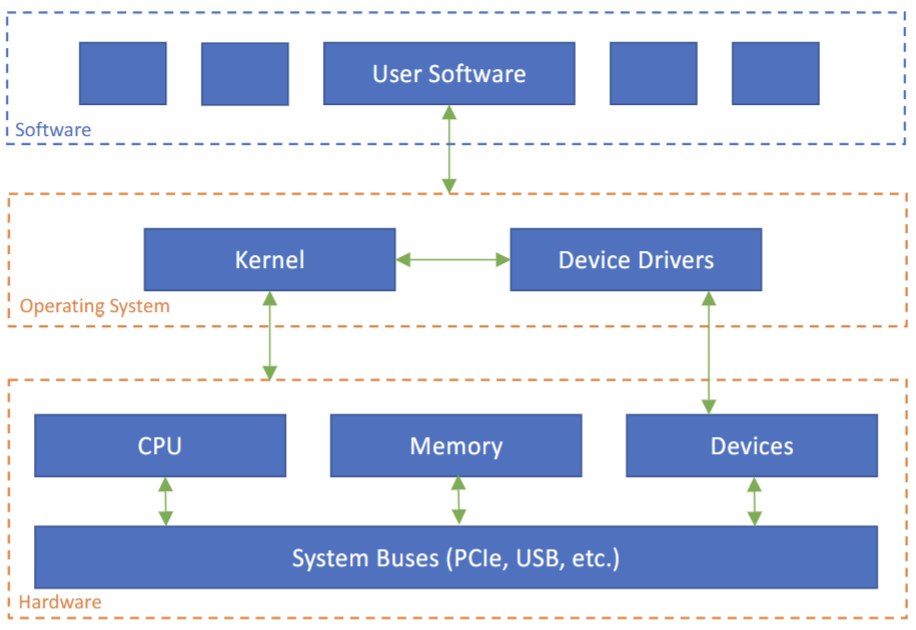
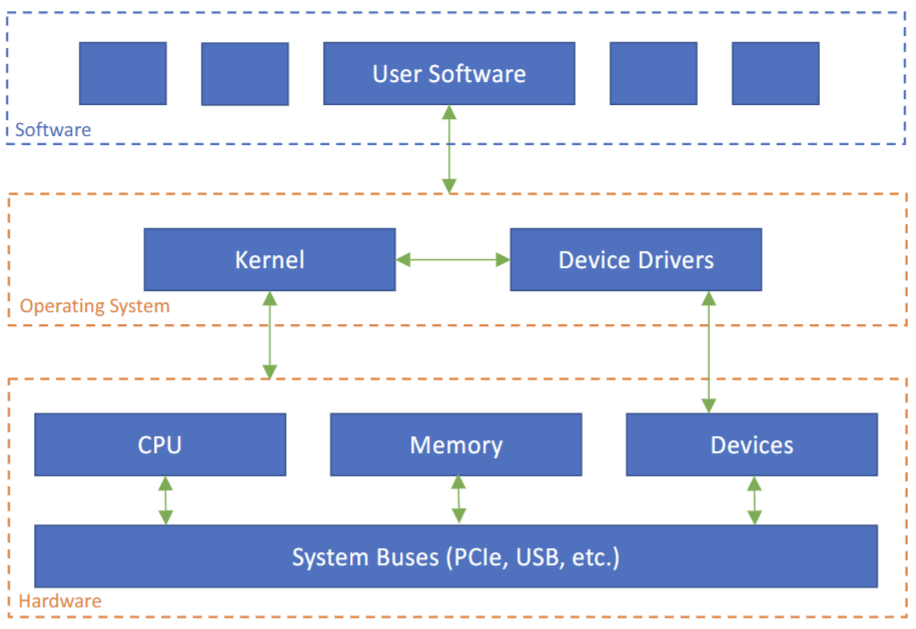
completed comp124 architecture key info

diff --git a/Comp Sci Year 1/Semester 2/COMP124 - Computer Systems/Key Info/Architecture.md b/Comp Sci Year 1/Semester 2/COMP124 - Computer Systems/Key Info/Architecture.md
@@ -1,0 +1,239 @@
+## Von Neumann Model
+Prompting Questions: 
+- What does the Von Neumann model consist of?
+- What concept is it associated with?
+- Has this model changed over time?
+- What does the architecture of a modern system look like?
+### Answers:
+Von Neumann model consists of:
+- Input Device ->
+- CPU & Memory ->
+- Output Device 
+
+(See below)
+![[von_neumann_model.png]]
+
+It is associated with the **stored program concept**.
+
+This model has not changed over time but the specifics (type of input device/memory etc.) have changed.
+
+![[modern_system.png]]
+## CPU Overview
+Prompting Questions:
+- What is the role of the CPU?
+- What is an instruction?
+- What is an instruction set?
+- What common types of CPU instruction sets exist? 
+- Where is each type of instruction set used, and how do they differ?
+- How do you measure CPU speed?
+- What does 1Ghz mean?
+- What is the advantage of multiple CPU cores?
+### Answers:
+The role of the CPU is to fetch instructions from memory and execute them.
+
+An instruction is a very basic command the CPU can perform such as:
+- Add two values
+- Save a value at $x$ point in memory
+- etc.
+
+An instruction set is all the instructions a CPU can perform. These differ based on make (AMD, Intel, etc.)
+
+The two common types of instruction set are:
+- Complex Instruction Set (CISC) - Desktops/Servers etc. - For example Intel x86
+- Reduced Instruction Set (RISC) - Smartphones etc. - For example ARM
+
+They differ as:
+- RISC instruction sets use a small set of simple, fixed-length, fast instructions which can execute in a single clock cycle.
+- CISC instruction sets use a larger set of variable length instructions which may take multiple clock cycles to execute.
+- RISC code isn't slower than CISC code, but will be longer.
+
+CPU speed is measured in hertz (Hz) by the speed of its clock:
+- 1Hz = 1 cycle/second
+- 1MHz = 1,000,000 cycles/second
+- 1GHz = 1,000,000,000 cycles/second
+
+Multiple CPU cores allow for some programs to execute faster provided they are written in a way to take advantage of concurrency.
+## System Bus
+Prompting Questions:
+- What is a system bus?
+- Why do we use busses?
+- How does data transfer work?
+- What kinds of lines does the bus have, and what are their purposes?
+- What are common busses in modern systems?
+- What is bus contention?
+### Answers
+A system bus is a collection of wires which all connected motherboard components to communicate.
+
+Using a bus allows us to avoid directly connecting each component (a point-to-point system) which is prohibitively expensive/complicated. In a $n$ device point to point system there would need to be
+$$
+\frac{n(n-1)}2=O(n^2)
+$$
+connections.
+
+Data transfer works by **senders** placing items (data) on the bus and **receivers** taking it off.
+
+The bus has:
+- Address lines - These specify a memory address/device to be accessed
+- Data lines - Carry the data/item to be transferred
+- Control lines - Carry instructions for the receiver to perform
+
+Modern systems include busses such as:
+- SATA
+- PCIe
+- USB
+
+**Bus contention** is the problem of deciding what uses a bus at any given time, since only 1 thing can be on each bus at once.
+## I/O Devices & Interrupts
+Prompting Questions:
+- How does the CPU know when a device is ready to receive/transmit?
+- What is polling?
+- What are the downsides of polling?
+- What are interrupts?
+### Answers:
+The CPU knows when devices are ready by using:
+- Polling (Older systems)
+- Interrupts (Modern systems)
+
+Polling is when the CPU periodically checks the status of each device by sending out a clock signal.
+
+The disadvantages of polling are:
+- Needs the CPU to stop what it's doing
+- Wastes clock cycles
+
+An interrupt is a signal sent to the CPU by a device when:
+- It is ready
+- It is finished with a task
+They are intercepted by an interrupt handler within the OS which then decides how/when the CPU will access respond to the interrupt.
+## Internal Memory
+Prompting Questions:
+- How are programs and data stored?
+- What do we need to do before processing programs/data?
+- What types of internal memory are there?
+- How are they used?
+- What are their properties?
+### Answers
+Programs/Data are **stored in binary** and must be **loaded into internal/main memory** before they can be processed.
+
+The types of internal memory are:
+- Random Access Memory (RAM)
+- Read Only Memory (ROM)
+
+RAM is:
+- Read and Write
+- Volatile
+- For storing programs as they are running
+ROM is
+- Read only
+- Non-volatile
+- For storing static code such as boot code
+## Bit Length & Word Size
+Prompting Questions:
+- What is the bit length of system?
+- What are common bit lengths for different types of systems?
+- Can modern processors run programs built for older ones?
+- What does word size mean?
+- How are bit length and word size related?
+- How does bit length affect maximum RAM size?
+- How do we index bits?
+- What is the most/least significant bit?
+### Answers:
+The bit length of a system is how much memory can be manipulated by the CPU in one operation.
+
+Common bit lengths are:
+- 64 Bit - Most modern systems
+- 32 Bit - Some modern systems and some older ones
+- 16Bit/8Bit - Embedded microprocessors
+
+Newer processors with higher bit lengths are usually built with backwards compatibility in mind. 64-Bit Processors can usually run 32-Bit programs but not vice versa.
+
+Word size is the size of the data that can be stored in a single variable in a piece of code.
+
+Word size cannot exceed bit length as the bit length is linked to the size of CPU registers and the width of the system bus.
+
+In an $n$-bit system, the maximum number of addressable bytes is $2^n$. This is our maximum RAM size:
+- 16-Bit System - 64KB of RAM
+- 32-Bit System - 4GB of RAM
+- 64-Bit System - 16EB of RAM
+
+Within a single "word" we index bits from right to left:
+- Bit 0 (right most bit) is the least significant bit
+- Bit $n-1$ (left most bit) is the most significant bit
+## CPU Structure
+- What are the main units of the CPU?
+- What do these units do?
+- What is a register?
+- What specific purpose registers does the CPU have?
+- What do these registers do?
+- What registers does the MMU contain and what do they do?
+- What are the steps of the fetch execute cycle?
+### Answers
+The main units of the CPU are:
+- Control Unit 
+- The Arithmetic Logic Unit (ALU)
+- The Memory Management Unit (MMU)
+
+The **control unit** governs the activity of the CPU, and provides the ALU with operands and data.
+
+The ALU performs arithmetic operations and bit manipulations.
+
+The MMU is used to interface with main memory.
+
+A register is a small data store within the CPU itself. They are much faster for the CPU to access than RAM.
+
+Specific purpose registers include:
+- Instruction pointer `IP`, this hold the address of the **next** instruction in main memory.
+- Instruction register `IR`, holds the instruction currently being executed.
+
+The MMU contains:
+- Memory address register `MAR` - Stores the address of data to be accessed
+- Memory buffer register `MBR` - Stores retrieved data
+
+The steps of the fetch execute cycle are:
+1. Copy the address in `IP` into `MAR`
+2. Increment `IP`
+3. Instruction arrives from memory into the `MBR`
+4. Instruction is copied from `MBR` to `IR`
+5. Instruction in `IR` is decoded
+6. Any operands are fetched
+7. Instruction is executed
+8. Repeat
+## Instructions
+Prompting Questions:
+- How many categories of instructions are there?
+- What are the categories of instructions?
+- What do you need to do to high level code to make it run on a CPU?
+- What is the structure of an instruction?
+- Why do some instructions have multiple opcodes?
+- How long can an Intel x86 instruction be?
+- How many addressing modes can an Intel x86 instruction have? 
+- What are these modes?
+### Answers
+There are 6 broad categories of instructions:
+- Transfer - Moving data around
+- Arithmetic - Simple maths operations
+- Logic - Bit manipulations
+- Test - Comparing values/setting flags
+- Control - Jumps/Subroutine calls
+- Miscellaneous - Whatever doesn't fit
+
+High level code must be translated into a series of low level instructions before the CPU can run it. The specific instructions the compiler must generate depends on the CPU's instruction set.
+
+Instructions are split into:
+- Opcodes - A number the CPU understands which represents that instruction
+- Operands - Data which the instruction must act on
+
+Instructions may have multiple opcodes to indicate how the operands are encoded, this is not the case in Intel x86 instructions.
+
+>Note all further comments about the structure of instructions are using the Intel x86 instruction set.
+
+An Intel x86 instruction can between 1 and 15 bytes long. The full structure is shown below:
+![[x86_instruction.png]]
+
+The mode specifies the **addressing mode** meaning it tells the CPU where to find the operands.
+
+The 5 addressing modes are:
+- Immediate - The operand value is encoded directly into the instruction
+- Register - The operand value is stored in a register
+- Direct - The operand value is stored at an address in main memory
+- Register Indirect - The instruction specifies a register which holds a main memory address for the operand
+- Implicit - The instruction does not require an operand

diff --git a/Comp Sci Year 1/Semester 2/COMP108 - Data Structures and Algorithms/Key Info/Pseudocode and Algorithm Efficiency.md b/Comp Sci Year 1/Semester 2/COMP108 - Data Structures and Algorithms/Key Info/Pseudocode and Algorithm Efficiency.md
@@ -39,15 +39,15 @@ $$
 $$
 This definition can be used to prove that a given algorithm is of order $O(g(n))$ after calculating that the actual number operations for the algorithm is $f(n)$
 
-In practice, we can find the big-O of a algorithm by simply **discarding any constants** and **discarding all but the dominant term(s)**.
+In practice, we can find the big-O of an algorithm by simply **discarding any constants** and **discarding all but the dominant term(s)**.
 
 The **dominant term** of a function is the term which places highest in the hierarchy defined below.
 
-If a function has two distinct terms of the same degree, for example
+If a function has two distinct terms, for example
 $$
 f(n) = n^2 + m
 $$
-then you cannot eliminate either term unless you know for certain that one always dominates the other. For example if $m$ is always less than $n$.
+then you cannot eliminate either term unless you know for certain that one always dominates the other. For example if $m$ is always less than $n^2$.
 ### Hierarchy of Functions
 We can define the hierarchy of functions as follows, lowest **order of growth** to highest:
 - **Constant** - 1
@@ -60,7 +60,7 @@ We can also expand this to add:
 - $n^2\log n$ between $n^2$ and $n^3$
 - etc.
 
-$log_an$ and $log_bn$ always differ by a constant value so we don't need the base for time complexity analysis.
+$log_an$ and $log_bn$ always differ by a constant value for all $a,b$ so we don't need the base for time complexity analysis.
 
 $log^kn$ has a lower order of growth than $\log n$ for all $k\in\mathbb N$.
 

diff --git a/Comp Sci Year 1/Semester 2/COMP108 - Data Structures and Algorithms/Key Info/Trees and Graphs.md b/Comp Sci Year 1/Semester 2/COMP108 - Data Structures and Algorithms/Key Info/Trees and Graphs.md
@@ -10,6 +10,8 @@ A **connected graph** is a graph which has at least one path between any two ind
 
 The **degree of a vertex** in an undirected graph is the number of edges the vertex is incident with.
 
+The **degree of a graph** is the maximum of all degrees of its vertices.
+
 In a **directed graph** each vertex has an:
 - **In-degree** - The number of edges which point to the vertex
 - **Out-degree** - The number of edges which leave a vertex
@@ -56,13 +58,13 @@ A **descendant** of a node is any node lower than it in a rooted tree hierarchy.
 
 A **leaf** is a vertex of a rooted tree which has no children.
 
-An **internal vertex** is any non-leaf vertex in the tree.
+An **internal vertex** is any non-leaf vertex in a rooted tree.
 
 The **degree of a vertex** in a **rooted tree** is the number of children it has.
 
 The **degree of a rooted tree** is the maximum of the degrees of all vertices in the tree.
 
-A **subtree** of a rooted tree is a smaller tree formed by taking any vertex of the tree as the root. In general a subtree is a smaller tree contained inside a larger tree.
+A **subtree** of a rooted tree is a smaller tree formed by taking any non-root vertex of the tree as the root. In general a subtree is a smaller tree contained inside a larger tree.
 ### Tree Traversals
 **Preorder traversal** - Visits the vertex first, then the left subtree, then the right subtree. (VLR)
 
@@ -111,7 +113,7 @@ In a directed graph, if $i$ leads out from $a$ and into $b$ then $M(i,a)$ would 
 
 Incidence matrices should be used over adjacency matrices if the graph is **not-simple**.
 
-Incidence matrices only ever store two 1 values per row, since an edge can only connect two nodes. This increases the amount of redundant space compared to an adjacency matrix, or adjacency list.
+Incidence matrices only ever store two values per row, since an edge can only connect two nodes. This increases the amount of redundant space compared to an adjacency matrix, or adjacency list.
 
 Incidence lists represent graphs by storing a list of all nodes incident with each edge alongside each edge.
 ## Circuit Properties

diff --git a/Comp Sci Year 1/Semester 2/COMP124 - Computer Systems/Lecture Notes/Lecture 2 - CPU, Fetch Execute Cycle and Instruction Sets.md b/Comp Sci Year 1/Semester 2/COMP124 - Computer Systems/Lecture Notes/Lecture 2 - CPU, Fetch Execute Cycle and Instruction Sets.md
@@ -16,10 +16,11 @@ This invokes an interrupt handler within the operating system, which intercepts 
 ## Internal Memory
 All programs and data must be converted to binary format and loaded into internal memory before they can be processed. This is called the stored program concept.
 
-There are multiple types of memory, which include:
+There are two types of internal memory:
 - **RAM** - Random Access Memory - This is read and write, volatile (meaning it is not persistent, and will be lost when turned off or power is lost) and is the main type of memory the computer uses when performing tasks. It is called random access memory because it can be accessed from any random location, rather than needing to be accessed from the beginning.
 - **ROM** - Read Only Memory - This is non-volatile, and cannot be change. It is usually burned into a chip on the motherboard. This is how the system boot code would be stored.
-- The memory in HDDs and SSDs is different from the above 2 types, it is non-volatile and read and write. Programs stored in HDDs and SSDs must be loaded into ram before they are used.
+
+>The memory in HDDs and SSDs is different from the above 2 types, and are not considered internal memory. It is non-volatile and read and write. Programs stored in HDDs and SSDs must be loaded into RAM before they are used.
 
 The **bit length** of a system determines how much memory can be moved and manipulated by the CPU in a single operation.
 
@@ -86,7 +87,7 @@ These instructions generally fall into 6 broad categories:
 - **Control** - jumps and subroutine calls
 - **Miscellaneous** - Any helper operations that don't fit into another category.
 
-Code written in high level languages, such as Java or C++, needs to be compiled into a sequence of ow level instructions that the CPU can understand.
+Code written in high level languages, such as Java or C++, needs to be compiled into a sequence of low level instructions that the CPU can understand.
 
 The fetch execute cycle works it's way through that low level sequence as it executes the program.
 

diff --git a/Comp Sci Year 1/Semester 2/COMP108 - Data Structures and Algorithms/Key Info/Queues, Stacks, and Linked Lists.md b/Comp Sci Year 1/Semester 2/COMP108 - Data Structures and Algorithms/Key Info/Queues, Stacks, and Linked Lists.md
@@ -91,14 +91,13 @@ Linked lists can be implemented as a series of **nodes** which have the followin
 - `prev` - A pointer to the previous list node
 `prev` would not exist in a singly linked list.
 
->Prudence seems to pretty much only work with doubly linked lists in exam questions, so I am only going to refer to doubly linked lists from now on.
+>Prudence seems to pretty much only work with doubly linked lists in exam questions, so I am (mostly) only going to refer to doubly linked lists from now on.
 
 The linked list itself will have the properties:
 - `head` - A pointer to the first item in the linked list 
 - `tail` - A pointer to the last item in the linked list
 
 Let $n$ be the size of the input list for all operations below.
-
 ### Traversing/Searching
 **Traversing a linked list from the head:** $O(n)$
 ```

diff --git a/Comp Sci Year 1/Semester 2/COMP108 - Data Structures and Algorithms/Key Info/Arrays & Proof of Correctness.md b/Comp Sci Year 1/Semester 2/COMP108 - Data Structures and Algorithms/Key Info/Arrays & Proof of Correctness.md
@@ -8,7 +8,7 @@ A **nested array**, also called a **2D array**, is an array which contains a num
 
 **Binary search** is a search algorithm which works on a sorted list by repeatedly splitting it in two, and comparing the mid points of each sub-list with the `key`.
 
-**Naïve pattern matching** is a pattern matching algorithm which determines whether a given pattern exists in a given array/string. It does so by checking every position of the array for the pattern. Better alternatives are not talked needed for this course but can be read about [[Lecture 7 - 2D Arrays and Pattern Matching#Doing Better|here]].
+**Naïve pattern matching** is a pattern matching algorithm which determines whether a given pattern exists in a given array/string. It does so by checking every position of the array for the pattern. Better alternatives are not needed for this course but can be read about [[Lecture 7 - 2D Arrays and Pattern Matching#Doing Better|here]].
 ## Array Properties & Notation
 We use `A[1..n]` to denote an array with $n$ elements numbered from $1$ to $n$.
 

diff --git a/Comp Sci Year 1/Semester 2/COMP108 - Data Structures and Algorithms/Key Info/Simple Sorting Algorithms.md b/Comp Sci Year 1/Semester 2/COMP108 - Data Structures and Algorithms/Key Info/Simple Sorting Algorithms.md
@@ -86,3 +86,5 @@ endwhile
 >This is because selection sort only requires $O(n)$ swap operations, while the other two require $O(n^2)$ swap operations. 
 >
 >The $O(n)$ swap operations is dominated by the $O(n^2)$ comparisons which need to be made as part of selection sort.
+>
+>In some cases insertion and bubble sort can perform less operations since selection sort always performs $n-1$ swap operations, but both insertion and bubble may perform less.

diff --git a/Comp Sci Year 1/Semester 2/COMP124 - Computer Systems/Key Info/Planned/Assembly Code.md b/Comp Sci Year 1/Semester 2/COMP124 - Computer Systems/Key Info/Planned/Assembly Code.md
@@ -1,0 +1,1 @@
+3-7